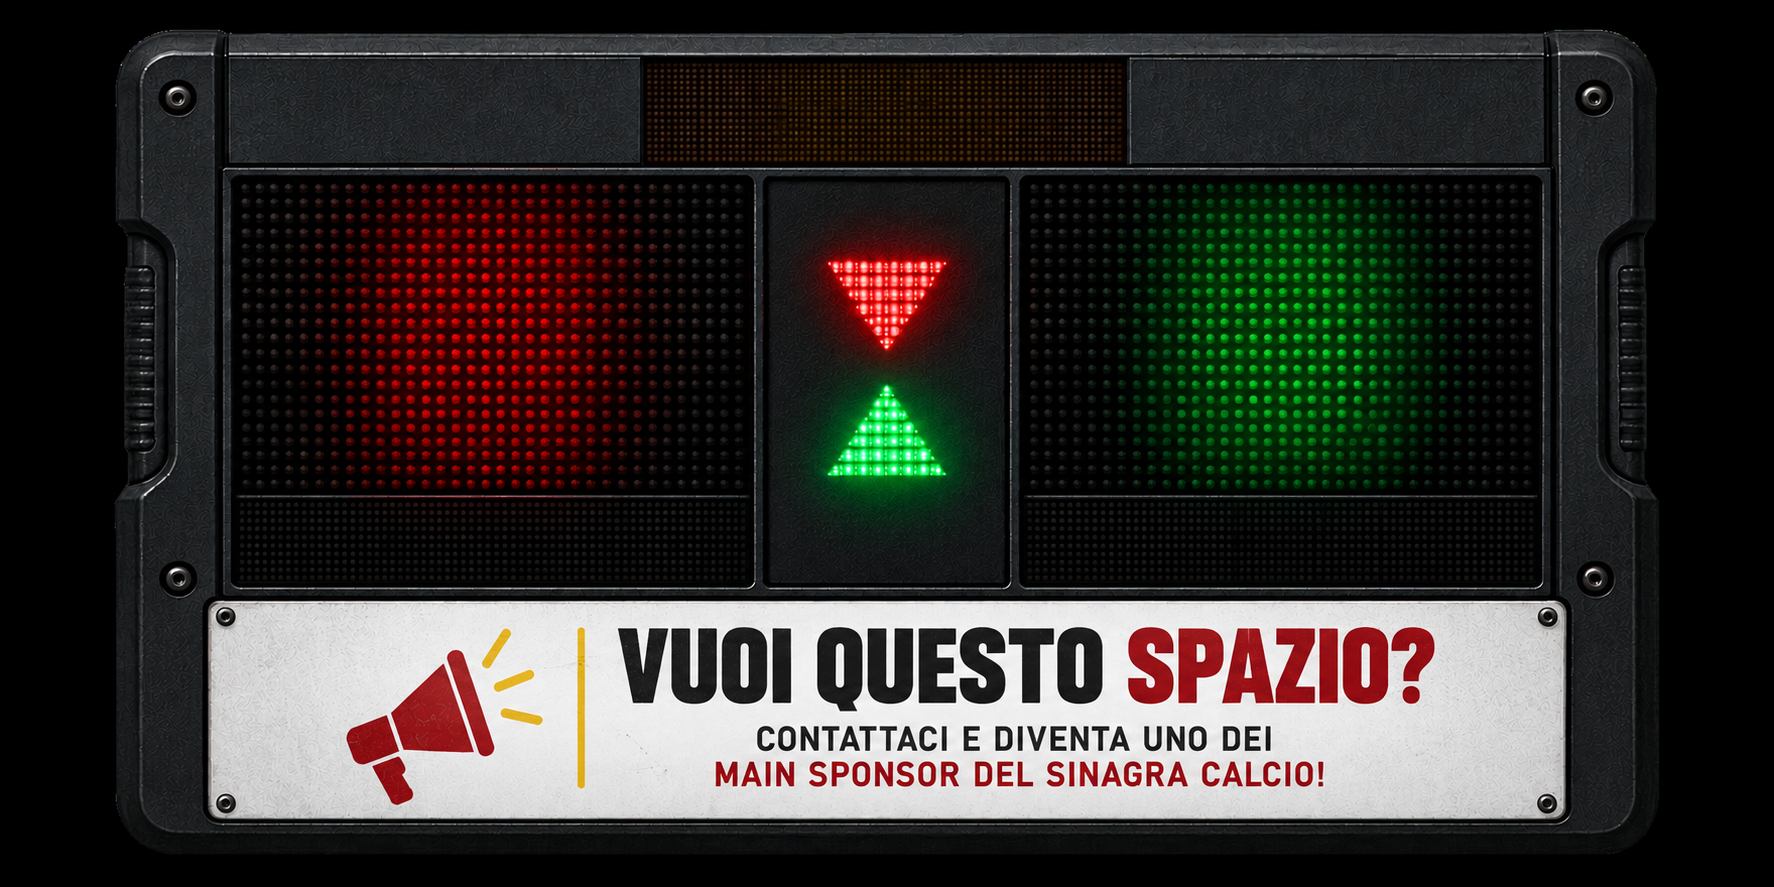
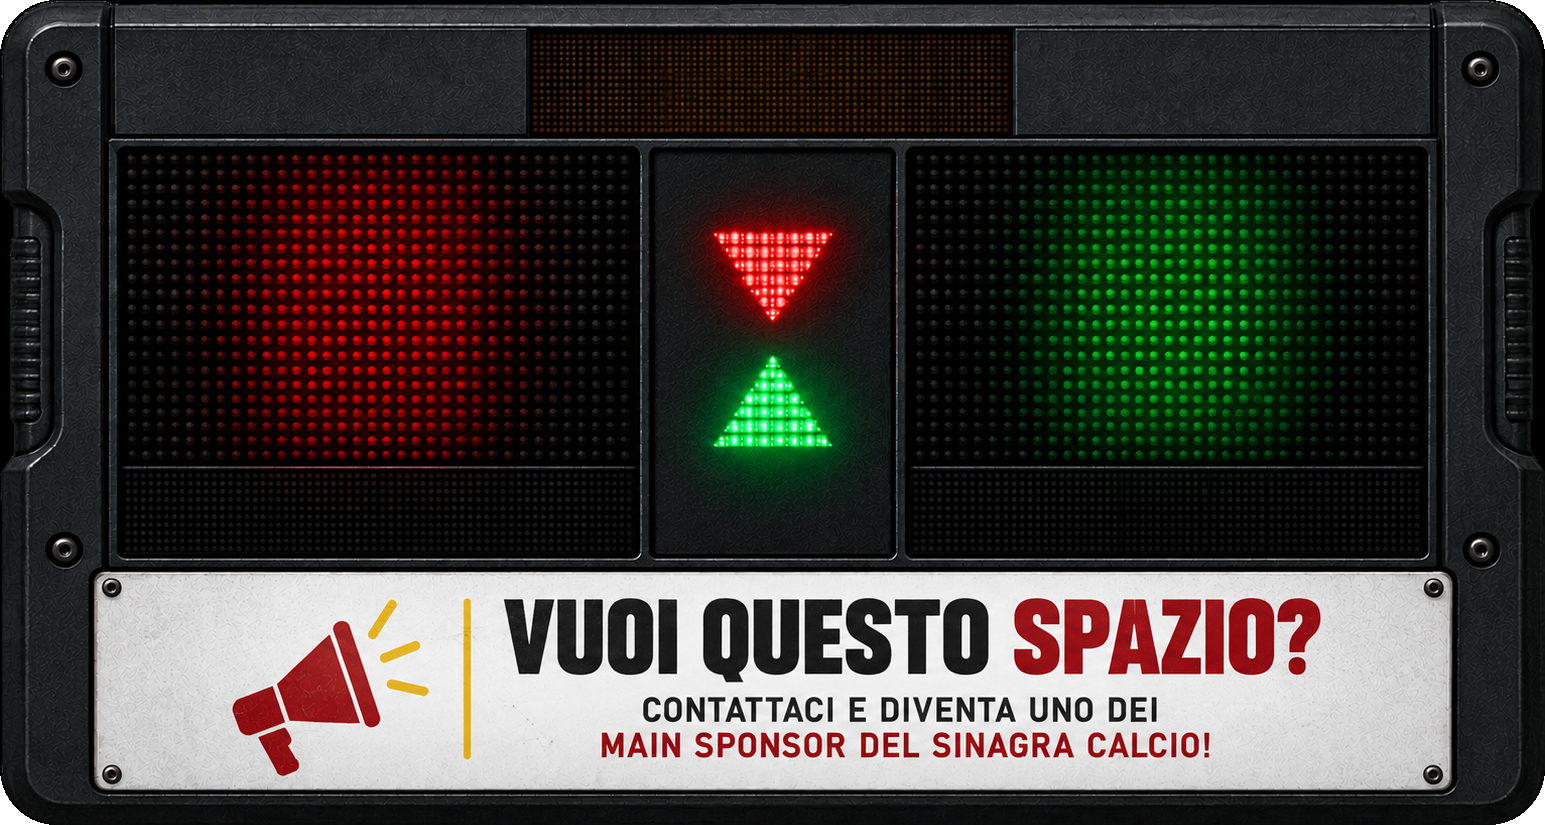
fix(substitution): crop board borders, round corners, recalibrate overlays
- substitution-board.png: removed black border, converted to RGBA with
  transparent rounded corners (r=56px)
- Recalculated bounding boxes after crop (1774×887 → 1545×825)
- Minute display: centered at 11% (fine-tuned)
- Player numbers: shifted down to t=22%
- Player names: shared font size based on longer name for consistency

diff --git a/src/components/graphics/SubstitutionPoster.tsx b/src/components/graphics/SubstitutionPoster.tsx
@@ -246,22 +246,16 @@ function Scoreboard({ config }: { config: SubstitutionConfig }) {
   const BOARD_H    = Math.round(BOARD_W / 2); // 460 px  (ratio 2:1)
 
   // ── Bounding box — display MINUTO ────────────────────────────────────────
-  // Finestra display: y=54–162px nell'asset (6.1%–18.3%), centro a 12.2%.
-  // t='2%' → centro effettivo a 2+12.15=14.15% (scende leggermente il testo
-  // così non tocca il bordo superiore del display).
-  const MIN_BOX  = { l: '0%',    t: '2%',    w: '100%',  h: '24.3%' };
+  // Ricalcolato dopo crop dei bordi neri (image 1774×887 → 1545×825)
+  const MIN_BOX  = { l: '0%',    t: '0%',    w: '100%',  h: '22%'   };
 
   // ── Bounding box — pannello LED USCENTE (rosso, sinistra) ─────────────────
-  // x: 240→745px = 13.5%→42.0%, width=28.5%, centroX=27.75%
-  // y: t=20%, h=43% → centroY=41.5%  (confermato buono dall'utente)
-  const OUT_NUM  = { l: '13.5%', t: '20%',   w: '28.5%', h: '43%'  };
-  // Fascia nome: ripristino valori precedentemente corretti
-  const OUT_NAME = { l: '13.5%', t: '55.8%', w: '28.5%', h: '10.5%' };
+  const OUT_NUM  = { l: '8%',    t: '22%',   w: '33%',   h: '34%'   };
+  const OUT_NAME = { l: '8%',    t: '56.5%', w: '33%',   h: '11.5%' };
 
   // ── Bounding box — pannello LED ENTRANTE (verde, destra) ──────────────────
-  // x: 1030→1540px = 58.1%→86.8%, width=28.7%, centroX=72.45%
-  const IN_NUM   = { l: '58.1%', t: '20%',   w: '28.7%', h: '43%'  };
-  const IN_NAME  = { l: '58.1%', t: '55.8%', w: '28.7%', h: '10.5%' };
+  const IN_NUM   = { l: '59.5%', t: '22%',   w: '33%',   h: '34%'   };
+  const IN_NAME  = { l: '59.5%', t: '56.5%', w: '33%',   h: '11.5%' };
 
 
   const numOut  = config.playerOut.number || 0;
@@ -278,6 +272,8 @@ function Scoreboard({ config }: { config: SubstitutionConfig }) {
     return Math.round(BOARD_H * 0.094);
   };
   const minuteFs = Math.round(BOARD_H * 0.155);
+  // Stesso size per entrambi i cognomi (basato sul nome più lungo)
+  const sharedNameFs = Math.min(nameFs(nameOut), nameFs(nameIn));
 
   // ── Helper: container assoluto + flex centrato ────────────────────────────
   // Ogni container coincide esattamente con la propria zona LED.
@@ -337,7 +333,7 @@ function Scoreboard({ config }: { config: SubstitutionConfig }) {
       {/* ── NOME USCENTE — fascia LED nera sotto la matrice sinistra ── */}
       <div style={BB(OUT_NAME)}>
         <span style={{
-          fontSize: nameFs(nameOut), fontWeight: 700,
+          fontSize: sharedNameFs, fontWeight: 700,
           color: '#FFFFFF',
           fontFamily: 'Impact, "Arial Narrow", sans-serif',
           letterSpacing: '0.07em',
@@ -359,7 +355,7 @@ function Scoreboard({ config }: { config: SubstitutionConfig }) {
       {/* ── NOME ENTRANTE — fascia LED nera sotto la matrice destra ── */}
       <div style={BB(IN_NAME)}>
         <span style={{
-          fontSize: nameFs(nameIn), fontWeight: 700,
+          fontSize: sharedNameFs, fontWeight: 700,
           color: '#FFFFFF',
           fontFamily: 'Impact, "Arial Narrow", sans-serif',
           letterSpacing: '0.07em',
